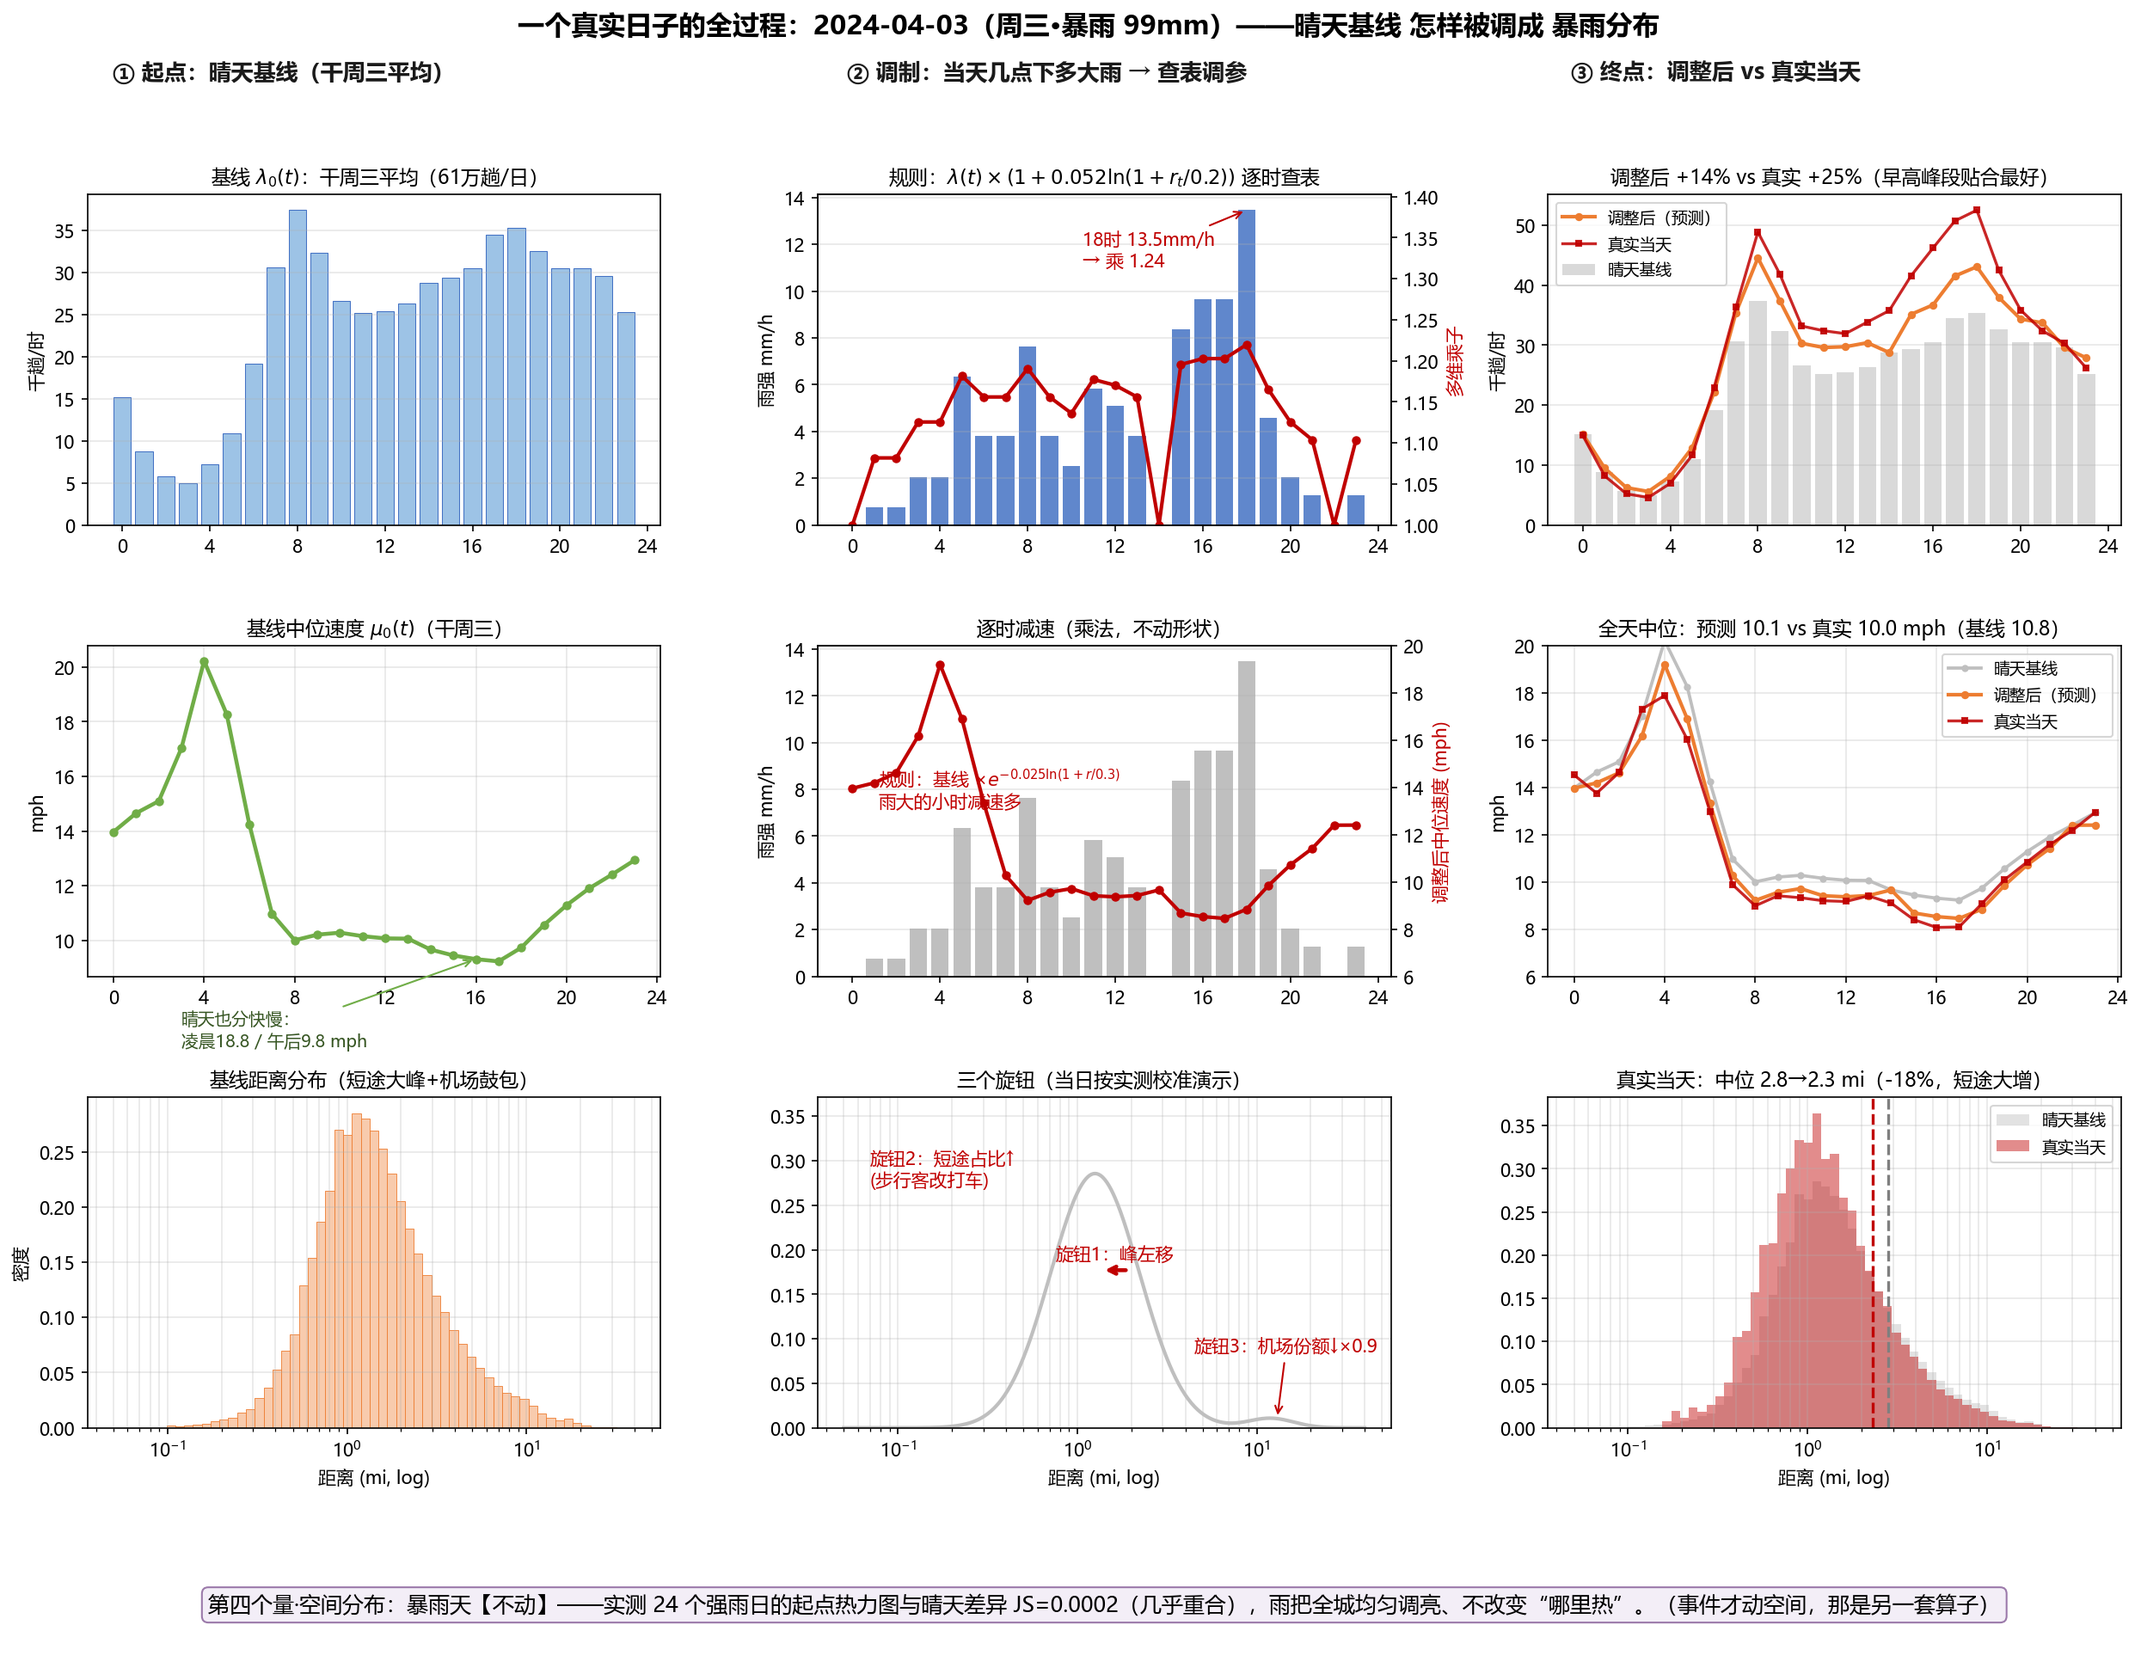
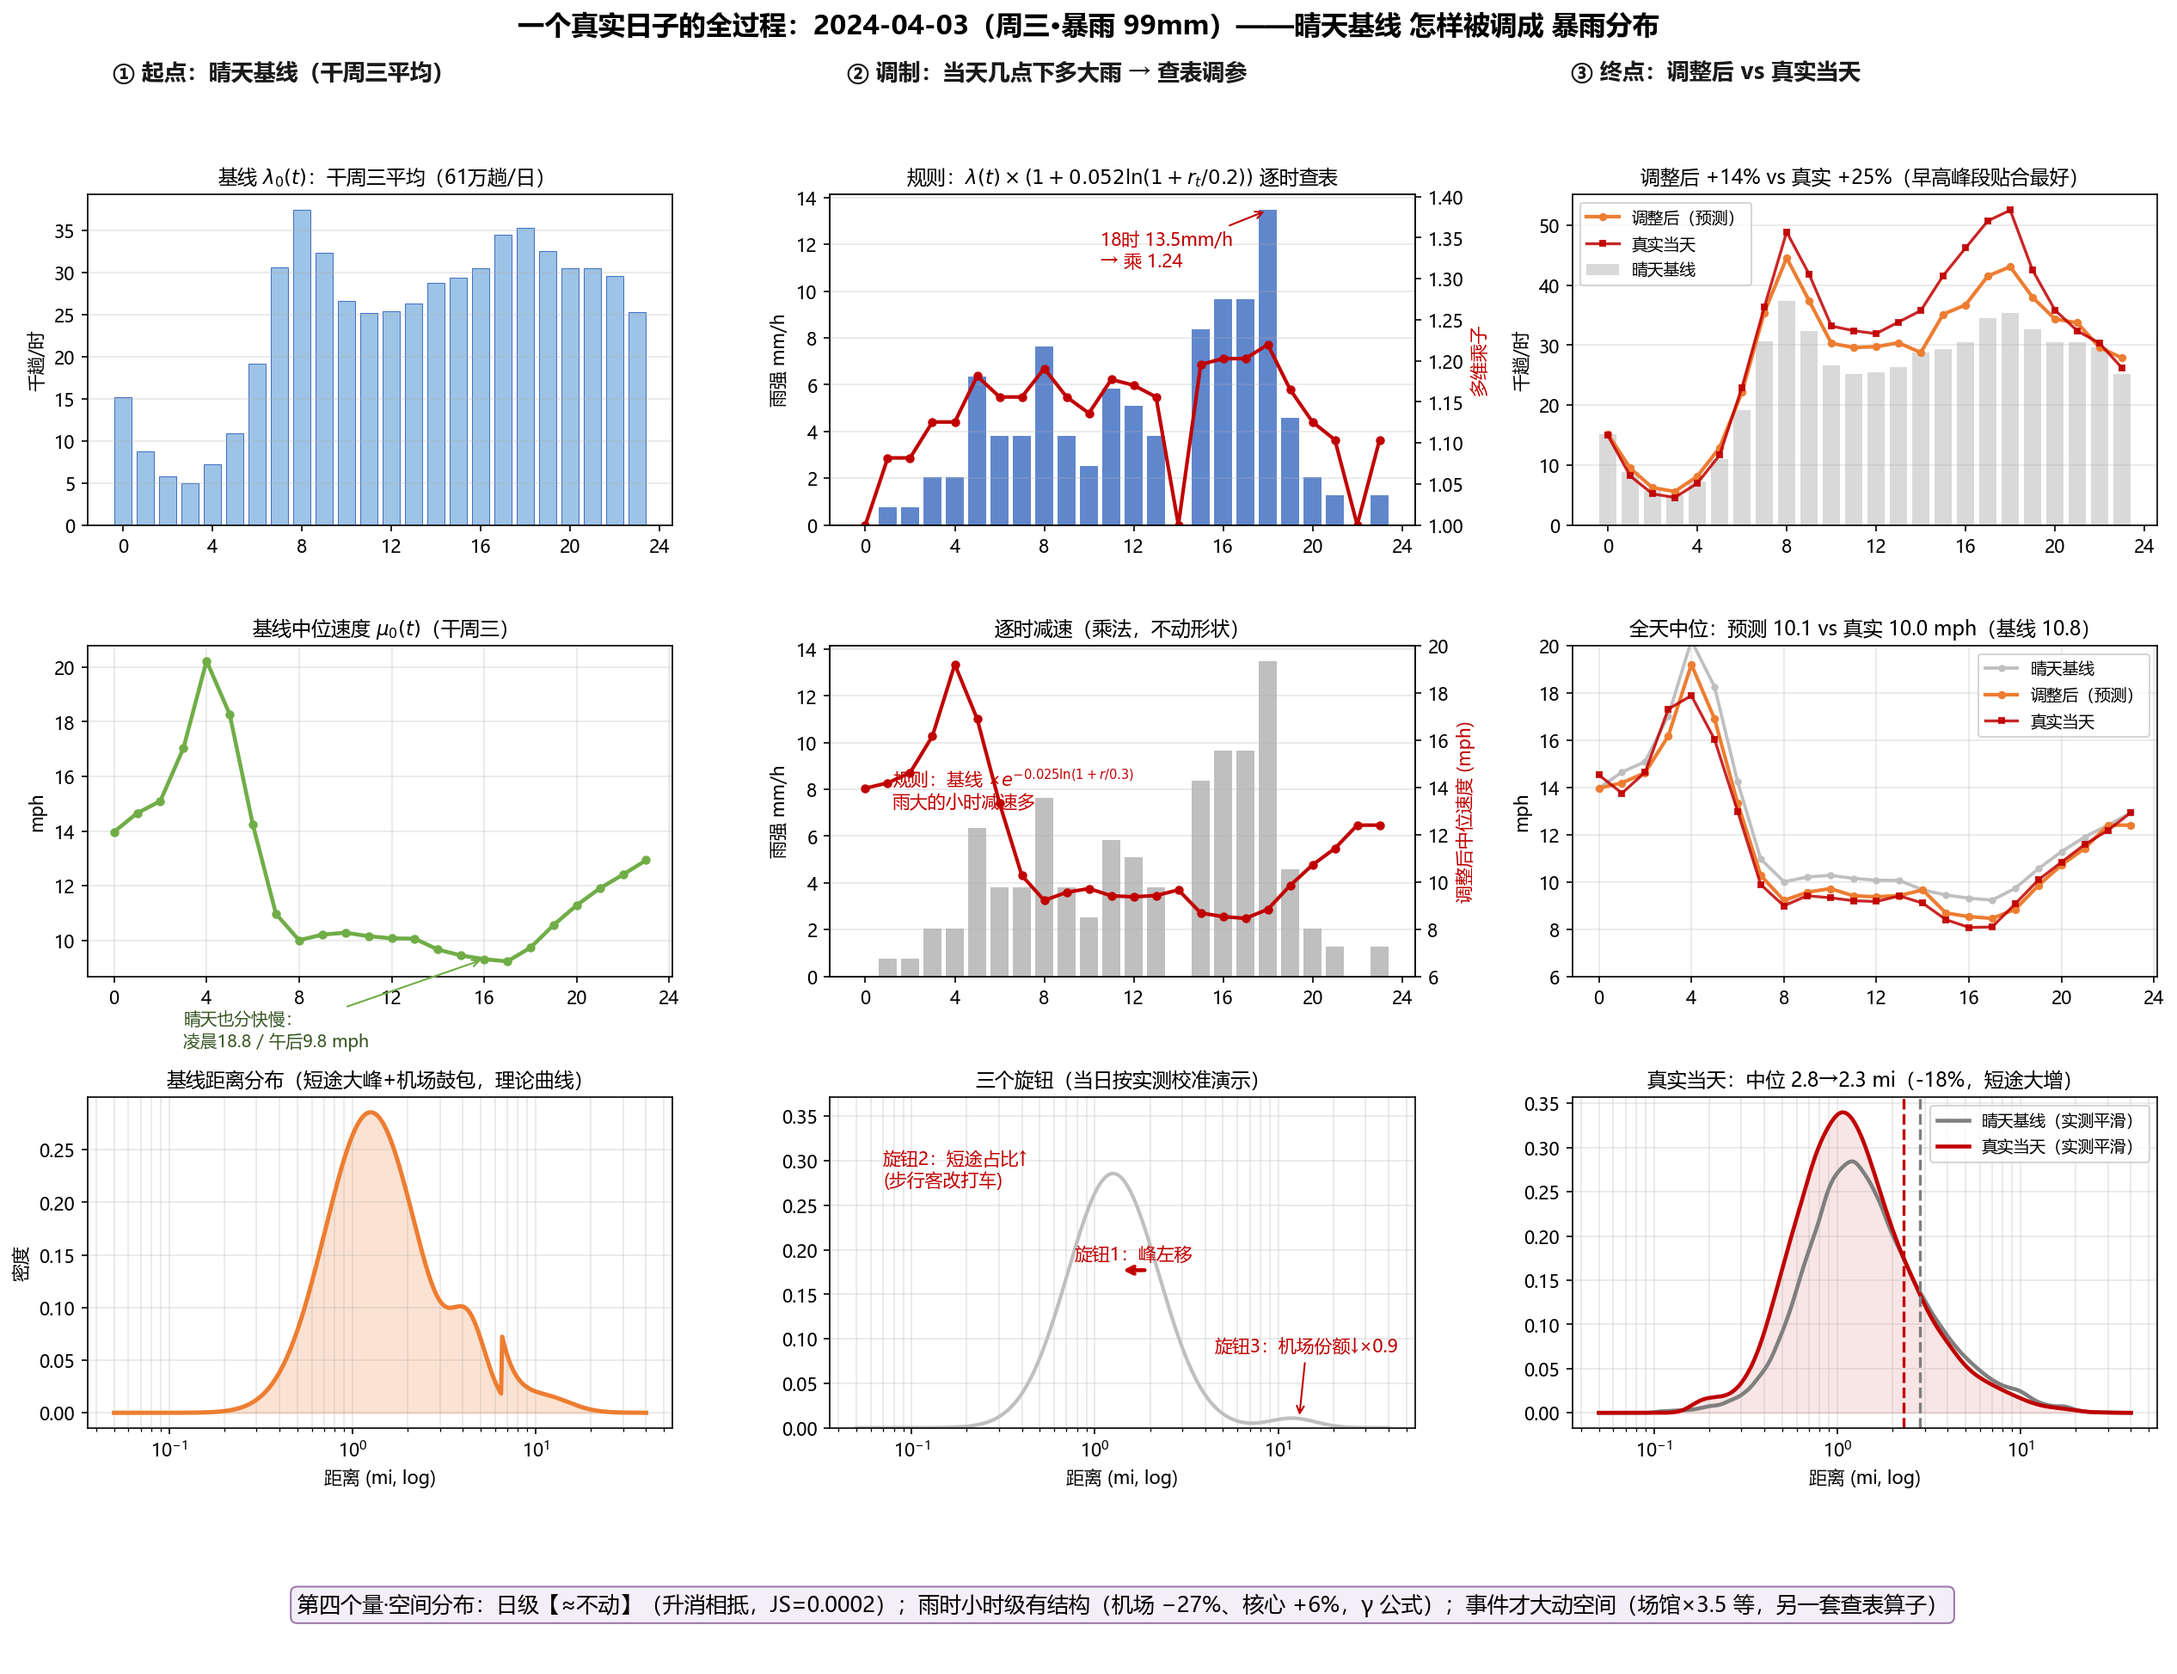
调整过程示例改版：距离分布全部曲线化（理论混合曲线+log-KDE平滑实测），空间注记更新两层口径

diff --git a/validate_15_process.py b/validate_15_process.py
@@ -126,10 +126,20 @@ ax.legend(fontsize=9); ax.grid(alpha=.3); ax.set_ylim(6, 20)
 
 # ================= 行3: 距离 =================
 bins = np.geomspace(.05, 40, 60)
+B3 = J['B3']
+xs_d = np.geomspace(.05, 40, 500)
+def mix_pdf4(x):
+    B = B3
+    p = (B['w1'] * stats.lognorm.pdf(x, B['sd1'], scale=np.exp(B['mu1']))
+         + B['w2'] * stats.lognorm.pdf(x, B['sd2'], scale=np.exp(B['mu2']))
+         + B['w_ap'] * stats.lognorm.pdf(x, B['sd_ap'], scale=np.exp(B['mu_ap'])))
+    p = p + np.where(x >= B['xmin'], B['w_pa'] * B['alpha'] / B['xmin'] * (x / B['xmin']) ** (-(B['alpha'] + 1)), 0)
+    return p
 ax = fig.add_subplot(gs[2, 0])
-ax.hist(dd_base, bins=bins, density=True, color='#F8CBAD', edgecolor='#ED7D31', lw=.4)
+ax.plot(xs_d, mix_pdf4(xs_d), lw=2.4, color='#ED7D31')
+ax.fill_between(xs_d, 0, mix_pdf4(xs_d), color='#F8CBAD', alpha=.55)
 ax.set_xscale('log')
-ax.set_title('基线距离分布（短途大峰+机场鼓包）', fontsize=11)
+ax.set_title('基线距离分布（短途大峰+机场鼓包，理论曲线）', fontsize=11)
 ax.set_xlabel('距离 (mi, log)'); ax.set_ylabel('密度'); ax.grid(alpha=.3, which='both')
 
 ax = fig.add_subplot(gs[2, 1])
@@ -150,9 +160,13 @@ ax.annotate('旋钮3：机场份额↓×0.9', xy=(13, B['w_ap'] * stats.lognorm.
 ax.set_title('三个旋钮（当日按实测校准演示）', fontsize=11)
 ax.set_xlabel('距离 (mi, log)'); ax.grid(alpha=.3, which='both')
 
+def logkde_pdf(dd, x):
+    kde = stats.gaussian_kde(np.log(dd))
+    return kde(np.log(x)) / x                      # log 空间密度 → 原空间密度
 ax = fig.add_subplot(gs[2, 2])
-ax.hist(dd_base, bins=bins, density=True, alpha=.45, color='#BFBFBF', label='晴天基线')
-ax.hist(dd_act, bins=bins, density=True, alpha=.45, color='#C00000', label='真实当天')
+ax.plot(xs_d, logkde_pdf(dd_base, xs_d), lw=2.2, color='#7F7F7F', label='晴天基线（实测平滑）')
+ax.plot(xs_d, logkde_pdf(dd_act, xs_d), lw=2.2, color='#C00000', label='真实当天（实测平滑）')
+ax.fill_between(xs_d, 0, logkde_pdf(dd_act, xs_d), color='#C00000', alpha=.10)
 ax.axvline(np.median(dd_base), color='#7F7F7F', ls='--', lw=1.6)
 ax.axvline(np.median(dd_act), color='#C00000', ls='--', lw=1.6)
 ax.set_xscale('log')
@@ -164,8 +178,8 @@ ax.set_xlabel('距离 (mi, log)'); ax.legend(fontsize=9); ax.grid(alpha=.3, whic
 # ================= 底部: 空间注记 =================
 ax = fig.add_subplot(gs[3, :]); ax.axis('off')
 ax.text(0.5, 0.5,
-        '第四个量·空间分布：暴雨天【不动】——实测 24 个强雨日的起点热力图与晴天差异 JS=0.0002（几乎重合），'
-        '雨把全城均匀调亮、不改变“哪里热”。（事件才动空间，那是另一套算子）',
+        '第四个量·空间分布：日级【≈不动】（升消相抵，JS=0.0002）；雨时小时级有结构（机场 −27%、核心 +6%，γ 公式）；'
+        '事件才大动空间（场馆×3.5 等，另一套查表算子）',
         ha='center', va='center', fontsize=12, family='Microsoft YaHei',
         bbox=dict(boxstyle='round', fc='#F3EEF7', ec='#9673A6', alpha=.95))
 
